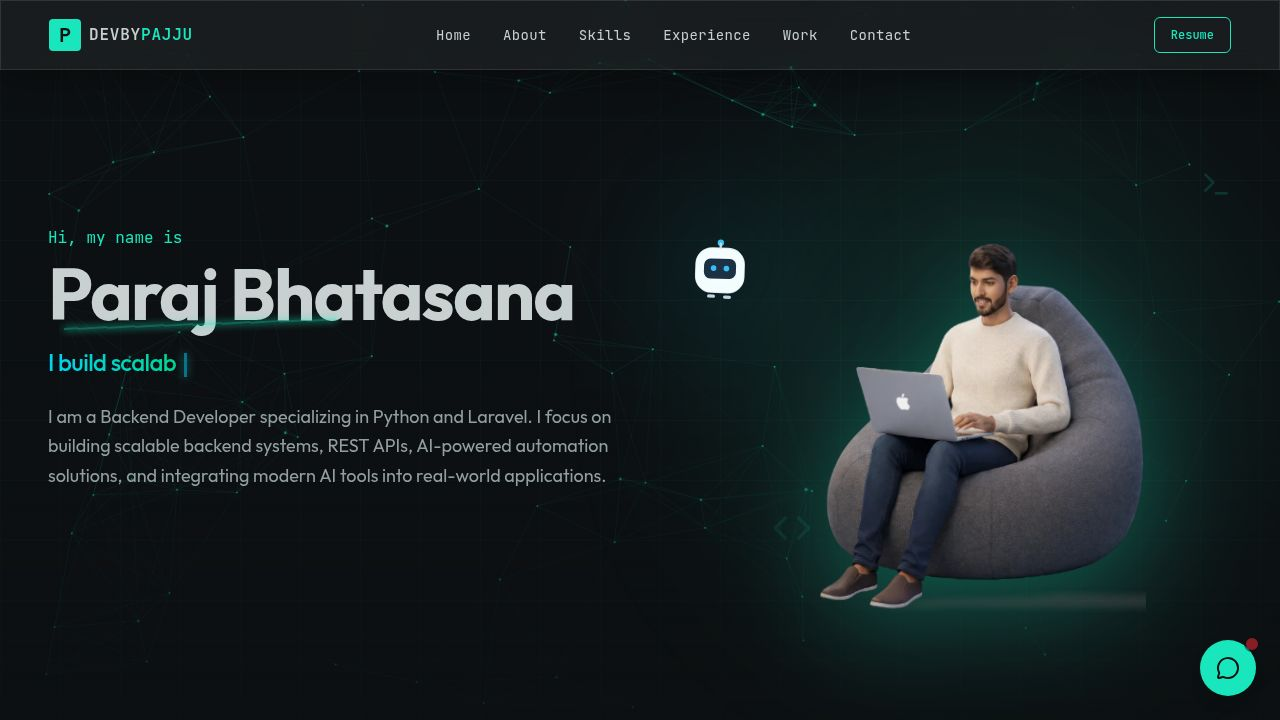
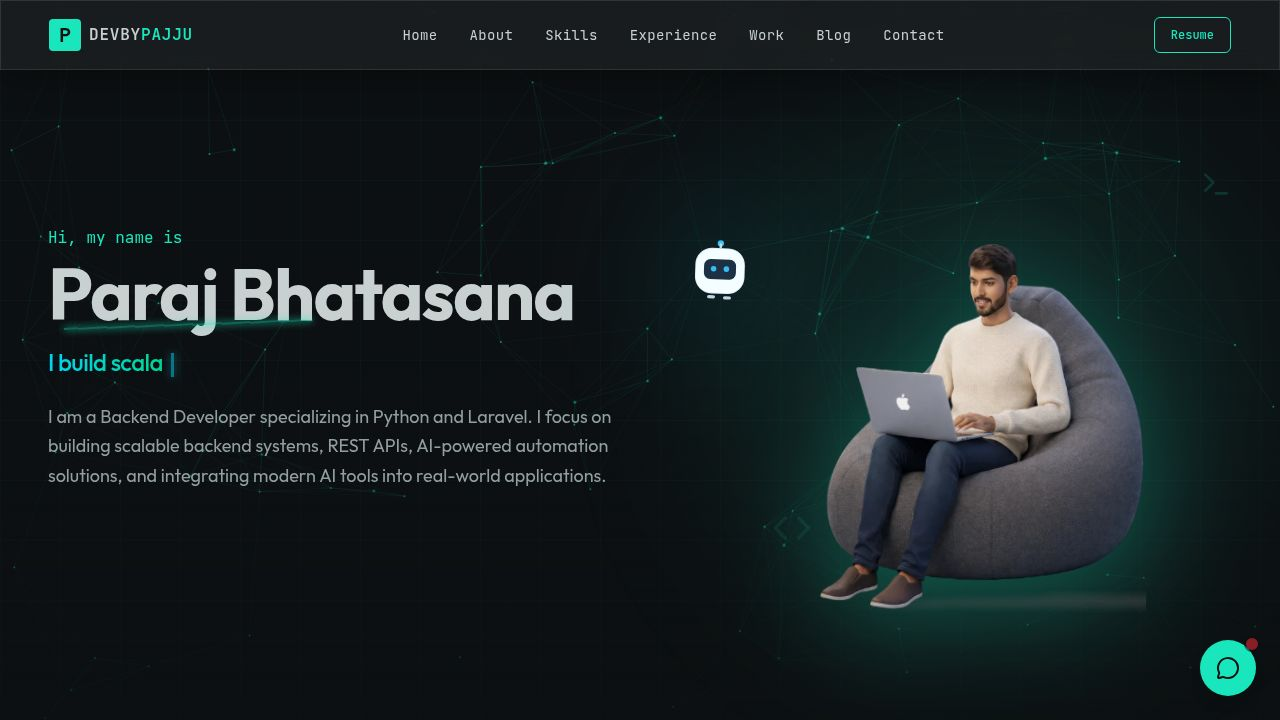
Add a blog section with a sliding carousel and dedicated page
Implement a new blog section with a horizontal auto-scrolling carousel displaying blog cards on the homepage, and create a dedicated `/blog` page to list all articles.

Replit-Commit-Author: Agent
Replit-Commit-Session-Id: 47a3874c-37b5-4e42-a7aa-c540907c9794
Replit-Commit-Checkpoint-Type: full_checkpoint
Replit-Commit-Event-Id: 4fc4c599-0789-41d0-b535-b03c34ace7d3
Replit-Commit-Screenshot-Url: https://storage.googleapis.com/screenshot-production-us-central1/c4886855-ed0e-43b5-ad84-752ceeb90bb8/47a3874c-37b5-4e42-a7aa-c540907c9794/1Zn5lLB
Replit-Helium-Checkpoint-Created: true

diff --git a/client/src/pages/Home.tsx b/client/src/pages/Home.tsx
@@ -377,6 +377,102 @@ const ProjectImageSlider = ({ images, title }: { images: string[]; title: string
   );
 };
 
+// Blog Section Component
+const BlogSection = () => {
+  const blogs = [
+    {
+      title: "Building Scalable Backends with Python",
+      description: "Explore the best practices for creating robust and high-performance backend systems.",
+      image: "https://images.unsplash.com/photo-1515879218367-8466d910aaa4?auto=format&fit=crop&q=80&w=800",
+      link: "/blog"
+    },
+    {
+      title: "Mastering Laravel Architecture",
+      description: "Deep dive into the Repository Pattern and Service Layer for maintainable apps.",
+      image: "https://images.unsplash.com/photo-1599507593499-a3f7d7d97667?auto=format&fit=crop&q=80&w=800",
+      link: "/blog"
+    },
+    {
+      title: "AI Integration in Modern Apps",
+      description: "How to seamlessly integrate LLMs and AI automation into your tech stack.",
+      image: "https://images.unsplash.com/photo-1677442136019-21780ecad995?auto=format&fit=crop&q=80&w=800",
+      link: "/blog"
+    },
+    {
+      title: "The Future of WhatsApp Automation",
+      description: "Leveraging the WhatsApp Business API for intelligent customer engagement.",
+      image: "https://images.unsplash.com/photo-1611746872915-64382b5c76da?auto=format&fit=crop&q=80&w=800",
+      link: "/blog"
+    }
+  ];
+
+  const duplicatedBlogs = [...blogs, ...blogs];
+
+  return (
+    <section id="blog" className="py-24 bg-black/20">
+      <div className="px-6 md:px-12 max-w-7xl mx-auto mb-12 flex items-center justify-between">
+        <div className="flex items-center gap-4 flex-grow">
+          <h2 className="text-3xl font-bold text-white whitespace-nowrap">Recent Blogs</h2>
+          <div className="h-px bg-gradient-to-r from-primary/50 to-transparent flex-grow"></div>
+        </div>
+        <Button 
+          variant="outline" 
+          className="ml-8 border-primary/30 text-primary hover:bg-primary/10 hidden sm:flex items-center gap-2"
+          onClick={() => window.location.href = "/blog"}
+        >
+          View All Blogs <ExternalLink size={14} />
+        </Button>
+      </div>
+
+      <div className="relative overflow-hidden w-full mask-fade-edges">
+        <motion.div
+          animate={{ x: [0, -1600] }}
+          transition={{
+            duration: 40,
+            repeat: Infinity,
+            ease: "linear",
+          }}
+          className="flex gap-6 px-6"
+        >
+          {duplicatedBlogs.map((blog, idx) => (
+            <div
+              key={idx}
+              className="flex-shrink-0 w-[300px] md:w-[350px] bg-[#1f2528] rounded-2xl overflow-hidden border border-white/5 hover:border-primary/30 transition-all group cursor-pointer"
+              onClick={() => window.location.href = blog.link}
+            >
+              <div className="aspect-[16/10] overflow-hidden">
+                <img
+                  src={blog.image}
+                  alt={blog.title}
+                  className="w-full h-full object-cover group-hover:scale-105 transition-transform duration-500"
+                />
+              </div>
+              <div className="p-5">
+                <h3 className="text-lg font-bold text-white mb-2 line-clamp-1 group-hover:text-primary transition-colors">
+                  {blog.title}
+                </h3>
+                <p className="text-sm text-muted-foreground line-clamp-2">
+                  {blog.description}
+                </p>
+              </div>
+            </div>
+          ))}
+        </motion.div>
+      </div>
+
+      <div className="mt-12 text-center sm:hidden px-6">
+        <Button 
+          variant="outline" 
+          className="w-full border-primary/30 text-primary hover:bg-primary/10 flex items-center justify-center gap-2"
+          onClick={() => window.location.href = "/blog"}
+        >
+          View All Blogs <ExternalLink size={14} />
+        </Button>
+      </div>
+    </section>
+  );
+};
+
 const Home = () => {
   const techSkills = [
     {
@@ -483,6 +579,9 @@ const Home = () => {
           </a>
           <a href="#projects" className="hover:text-primary transition-colors">
             Work
+          </a>
+          <a href="#blog" className="hover:text-primary transition-colors">
+            Blog
           </a>
           <a href="#contact" className="hover:text-primary transition-colors">
             Contact
@@ -931,6 +1030,9 @@ const Home = () => {
           ))}
         </div>
       </section>
+
+      <BlogSection />
+
       {/* Contact Section */}
       <section id="contact" className="py-32 px-6 md:px-12 max-w-7xl mx-auto">
         <div className="grid grid-cols-1 lg:grid-cols-2 gap-16 items-start">

diff --git a/client/src/pages/Blog.tsx b/client/src/pages/Blog.tsx
@@ -1,0 +1,101 @@
+import React from "react";
+import { motion } from "framer-motion";
+import { ArrowRight, Clock, User, ChevronLeft, ChevronRight } from "lucide-react";
+import { Button } from "@/components/ui/button";
+
+const Blog = () => {
+  const blogs = [
+    {
+      title: "Building Scalable Backends with Python",
+      description: "Explore the best practices for creating robust and high-performance backend systems using modern Python frameworks.",
+      image: "https://images.unsplash.com/photo-1515879218367-8466d910aaa4?auto=format&fit=crop&q=80&w=800",
+      date: "Oct 12, 2023",
+      author: "Paraj Bhatasana",
+      readTime: "5 min read"
+    },
+    {
+      title: "Mastering Laravel: Clean Code Architecture",
+      description: "Deep dive into the Repository Pattern and Service Layer for maintainable PHP applications.",
+      image: "https://images.unsplash.com/photo-1599507593499-a3f7d7d97667?auto=format&fit=crop&q=80&w=800",
+      date: "Sep 28, 2023",
+      author: "Paraj Bhatasana",
+      readTime: "8 min read"
+    },
+    {
+      title: "AI Integration in Modern Web Apps",
+      description: "How to seamlessly integrate LLMs and AI automation into your existing tech stack.",
+      image: "https://images.unsplash.com/photo-1677442136019-21780ecad995?auto=format&fit=crop&q=80&w=800",
+      date: "Sep 15, 2023",
+      author: "Paraj Bhatasana",
+      readTime: "6 min read"
+    },
+    {
+      title: "The Future of WhatsApp Automation",
+      description: "Leveraging the WhatsApp Business API for intelligent customer engagement and growth.",
+      image: "https://images.unsplash.com/photo-1611746872915-64382b5c76da?auto=format&fit=crop&q=80&w=800",
+      date: "Aug 30, 2023",
+      author: "Paraj Bhatasana",
+      readTime: "4 min read"
+    }
+  ];
+
+  return (
+    <div className="min-h-screen bg-[#0d1012] text-white pt-32 pb-20 px-6 md:px-12">
+      <div className="max-w-7xl mx-auto">
+        <div className="mb-16">
+          <h1 className="text-4xl md:text-6xl font-bold mb-4">Our Blog</h1>
+          <p className="text-muted-foreground text-lg max-w-2xl">
+            Sharing insights on backend engineering, AI automation, and modern web development.
+          </p>
+        </div>
+
+        <div className="grid grid-cols-1 md:grid-cols-2 lg:grid-cols-3 gap-8">
+          {blogs.map((blog, idx) => (
+            <motion.div
+              key={idx}
+              initial={{ opacity: 0, y: 20 }}
+              animate={{ opacity: 1, y: 0 }}
+              transition={{ delay: idx * 0.1 }}
+              className="bg-[#1f2528] rounded-2xl overflow-hidden border border-white/5 hover:border-primary/30 transition-all group"
+            >
+              <div className="aspect-video overflow-hidden">
+                <img
+                  src={blog.image}
+                  alt={blog.title}
+                  className="w-full h-full object-cover group-hover:scale-105 transition-transform duration-500"
+                />
+              </div>
+              <div className="p-6">
+                <div className="flex items-center gap-4 text-xs font-mono text-primary mb-4">
+                  <span className="flex items-center gap-1">
+                    <Clock size={12} /> {blog.readTime}
+                  </span>
+                  <span>{blog.date}</span>
+                </div>
+                <h3 className="text-xl font-bold mb-3 group-hover:text-primary transition-colors">
+                  {blog.title}
+                </h3>
+                <p className="text-muted-foreground text-sm mb-6 line-clamp-2">
+                  {blog.description}
+                </p>
+                <div className="flex items-center justify-between">
+                  <div className="flex items-center gap-2">
+                    <div className="w-8 h-8 rounded-full bg-primary/20 flex items-center justify-center text-primary">
+                      <User size={14} />
+                    </div>
+                    <span className="text-xs font-medium text-white/70">{blog.author}</span>
+                  </div>
+                  <Button variant="ghost" size="sm" className="text-primary hover:text-primary hover:bg-primary/10 gap-2">
+                    Read More <ArrowRight size={14} />
+                  </Button>
+                </div>
+              </div>
+            </motion.div>
+          ))}
+        </div>
+      </div>
+    </div>
+  );
+};
+
+export default Blog;

diff --git a/client/src/App.tsx b/client/src/App.tsx
@@ -5,6 +5,7 @@ import { Toaster } from "@/components/ui/toaster";
 import { TooltipProvider } from "@/components/ui/tooltip";
 import NotFound from "@/pages/not-found";
 import Home from "@/pages/Home";
+import Blog from "@/pages/Blog";
 import BackgroundAnimation from "@/components/BackgroundAnimation";
 import RobotFollower from "@/components/robot/RobotFollower";
 
@@ -12,6 +13,7 @@ function Router() {
   return (
     <Switch>
       <Route path="/" component={Home} />
+      <Route path="/blog" component={Blog} />
       <Route component={NotFound} />
     </Switch>
   );
